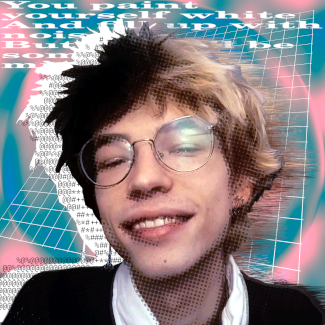
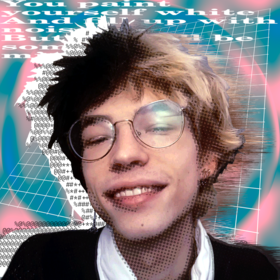
Added responsive sizing to about img

diff --git a/src/components/home/sections/About/index.tsx b/src/components/home/sections/About/index.tsx
@@ -112,6 +112,8 @@ export default function About() {
           className={`
 		flex 
 		flex-col 
+		items-center
+		md:items-start
 		md:grid 
 		grid-flow-row 
 		grid-cols-3 
@@ -124,21 +126,35 @@ export default function About() {
         >
           <picture>
             <source
+              media="(min-width: 768px)"
+              srcSet="assets/images/about/max_caplan_sm.webp"
+              type="image/webp"
+            />
+            <source
               srcSet="assets/images/about/max_caplan_md.webp"
               type="image/webp"
+            />
+
+            <source
+              media="(min-width: 768px)"
+              srcSet="assets/images/about/max_caplan_sm.png"
+              type="image/png"
             />
             <source
               srcSet="assets/images/about/max_caplan_md.png"
               type="image/png"
             />
+
             <img
-              src="assets/images/about/max_caplan_md.png"
+              src="assets/images/about/max_caplan_sm.png"
+              width="380"
+              height="380"
               alt="Max Caplan"
-              className="md:col-span-1 w-full rounded shadow border border-brand-gray-400"
+              className="md:col-span-1 w-full md:max-w-[380px] rounded shadow border border-brand-gray-400"
             />
           </picture>
 
-          <div className="md:col-span-2 flex flex-col gap-y-6">
+          <div className="md:col-span-2 flex flex-col gap-y-6 w-full">
             <div className="w-full h-fit border border-brand-purple rounded p-6 leading-8">
               <p className="font-bold text-brand-purple">
                 guest<span className="text-brand-white">@</span>maxcaplan.com

diff --git a/src/pages/Work/[id]/index.tsx b/src/pages/Work/[id]/index.tsx
@@ -21,7 +21,7 @@ export default function WorkPage() {
         <div className="flex flex-col gap-y-2">
           <div className="flex flex-col-reverse sm:flex-row gap-4 sm:items-center">
             <h1 className="flex-grow text-2xl sm:text-3xl font-bold">
-              <span>/work</span>
+              <Link to="/#work">/work</Link>
               <br className="sm:hidden" />
               <span>/{work.title}</span>
             </h1>
